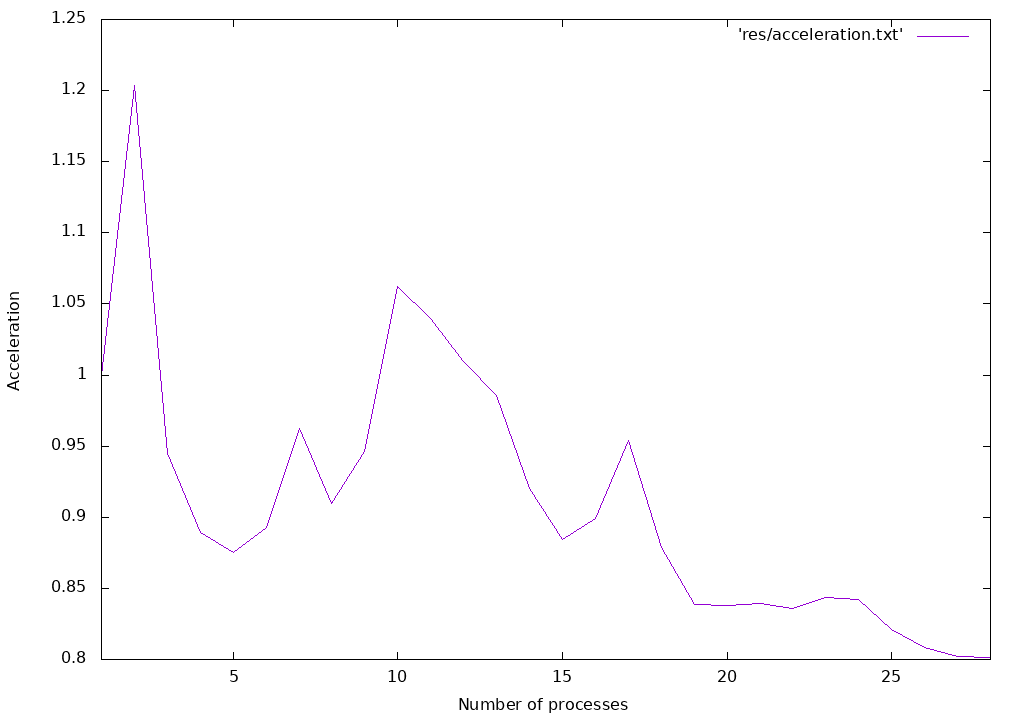
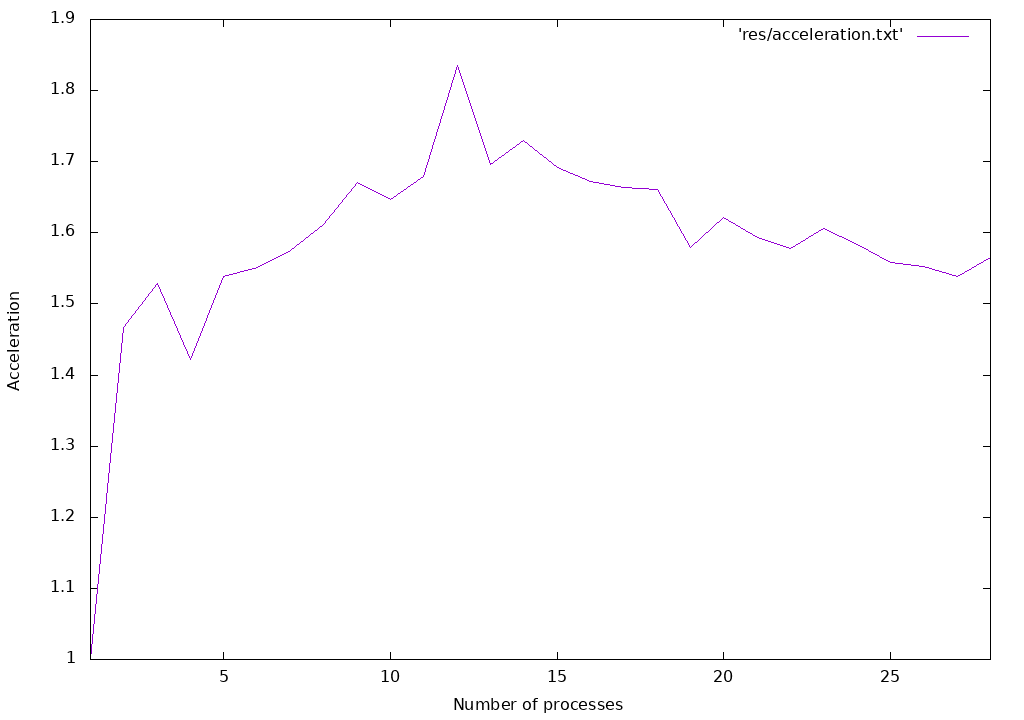
Updated graphics for the T = 10, M = 2000

diff --git a/heatConductivity/heat.c b/heatConductivity/heat.c
@@ -20,7 +20,7 @@ int main(int argc, char **argv)
 	MPI_Comm_size(MPI_COMM_WORLD, &size);
 	MPI_Comm_rank(MPI_COMM_WORLD, &rank);
 
-	// Считываем время, когда хотим узнать распределение температуры
+	// Считываем время, когда хотим узнать распределение температуры в стержне
 	double Time = atof(argv[1]);
 	if (Time < 0) {
 		if(rank == 0){
@@ -32,13 +32,14 @@ int main(int argc, char **argv)
     // Число разбиений по координате
 	int M = atoi(argv[2]);
 	if (M < 2) {
-		// Метод не сходится
+		// Иначе метод не сходится
 		if(rank == 0){
 			printf("Invalid values!\n");
 			return EXIT_FAILURE;
 		}
-	} else if(M <= size) { // Если мелкость разбиения координаты настолько мала, 
-	// что не будут использованы все процессы
+	} else if(M <= size) {
+		// Если мелкость разбиения координаты настолько мала, 
+		// что не будут использованы все процессы
 		if(rank == 0){
 			printf("Required number of processes is unreasonable compared to coordinate partition!\n");
 			return EXIT_FAILURE;

diff --git a/heatConductivity/res/data.c b/heatConductivity/res/data.c
@@ -5,9 +5,9 @@ int main(void) {
     int size = 0;
     double time = 1, tmp = 0;
 
-    FILE* data = fopen("data.txt","rt");
-    FILE* acceleration = fopen("acceleration.txt","w+");
-    FILE* efficiency = fopen("efficiency.txt","w+");
+    FILE* data = fopen("res/data.txt","rt");
+    FILE* acceleration = fopen("res/acceleration.txt","w+");
+    FILE* efficiency = fopen("res/efficiency.txt","w+");
     if((!data) || (!acceleration)) {
         printf("Error open data.txt\n");
         return EXIT_FAILURE;

diff --git a/heatConductivity/README.md b/heatConductivity/README.md
@@ -1,0 +1,53 @@
+# **Одномерное уравнение теплопроводности**
+
+Задача: решить одномерное уравнение теплопроводности при заданных граничных условиях и начальном распределении температуры `f(x)`. 
+
+Представим, что значально температура в стержне длины `L` была распределена по закону `f(x)`. Далее к его краям приложили два нагретых бруска с температурами `Temperature_1` и `Temperature_2` соответственно. По закону теплопроводности Фурье начал происходить теплообмен стержня с брусками. 
+
+Входные параметры:
+1. Момент времени `Time`, в который требуется узнать распределение температуры.
+2. Число разбиения длины стержня `M`.
+
+Результат: распределение температуры в стержне в заданный момент времени.
+
+### **Требования**
+1. Распараллелить программу, используя среду MPI (обязательно использовать вызовы `MPI_Send/MPI_Recv`).
+2. Построить графики ускорения и эффективности для числа процессов от 1 до 28.
+
+## **Решение**
+
+В решении используется явная разностная схема, температура покоординатно хранить в двух массивах, содержащих её распределение в момент `n` и `n + 1` соответсвенно. `u(x, 0) = f(x) = 0`.
+
+Число разбиений по координате `M` делим на требуемое количество процессов `size` равномерно и передаем каждому процессу его индексы подсчета. `i`-ый процесс производит параллельные вычисления между `i`-ым левым индексом и `i - 1`-ым (не включая). Так как для вычисления значения в `m`-ом элементе требуется значение `m, m - 1, m + 1` элементов, то для подсчета краевых значений происходит обмен краевыми узлами. 
+
+После конечной итерации значения подсчитываемые каждым процессом передаются с помощью ```MPI_Send``` 0-ому процессу, который с помощью ```MPI_Recv``` собирает все полученные значения, получая требуемое распределение температуры.
+
+**Особенности работы программы (костыли)**:
+1. У `0`-го процесса левый индекс всегда равен `1`, а у `size - 1`-го правый индекс всегда равен `M - 1`.
+2. Отрицательное время `(Time < 0)` смоделировать нельзя
+3. При `M < 2` метод не сойдется.
+4. При `M < size` задача становится нелогичной.
+5. Шаг по времени `tau = 0,3 (число Куранта) * h` (шаг по времени).
+
+Файл исходного кода `heat.c` выводит время работы программы для указанного количества процессов.
+
+## **Запуск**
+
+**Важно**: сборочные скрипты `build.sh, build_graphics.sh` не будут работать на учебном кластере. Можете попробовать запустить их на вашем ПК/ноутбуке.
+1. `./build.sh время число_разбиений_по_координате`
+2. Или запустите в своей командной оболочке Unix:
+
+```
+mpicc -Wall -Wextra -pedantic -O3 -Wshadow -Wformat=2 -Wfloat-equal -Wconversion -Wcast-qual \
+-Wcast-align -D_GLIBCXX_DEBUG -D_GLIBCXX_DEBUG_PEDANTIC -fsanitize=undefined \
+-fno-sanitize-recover=all -fstack-protector -o test heat.c -lm
+mpirun -np number_of_processes ./test time partition_of_the_grid
+```
+
+Скрипт для общего кластера смотрите на сайте lms.mipt.ru в вкладке "Параллельное программирование". В методичке "Учебный кластер" описан процесс поставки задачи в очередь и исполнения на учебном кластере.
+
+## **Результат**
+
+Все результаты находятся в папке `res`. В файле `data.txt` первой колонкой записано количество процессов, второй — среднее время их выполнения при выборке в 1000 последовательных запусков. 
+
+Запускаем скрипт для построения графиков `build_graphics.sh`. Он последовательно скомпилирует файл `data.c`, который создаст два файла: в `acceleration.txt` второй колонкой записаны ускорения процессов, в `efficiency.txt` — эффективности и запустит `gnuplot`, который отрисует требуемые графики
